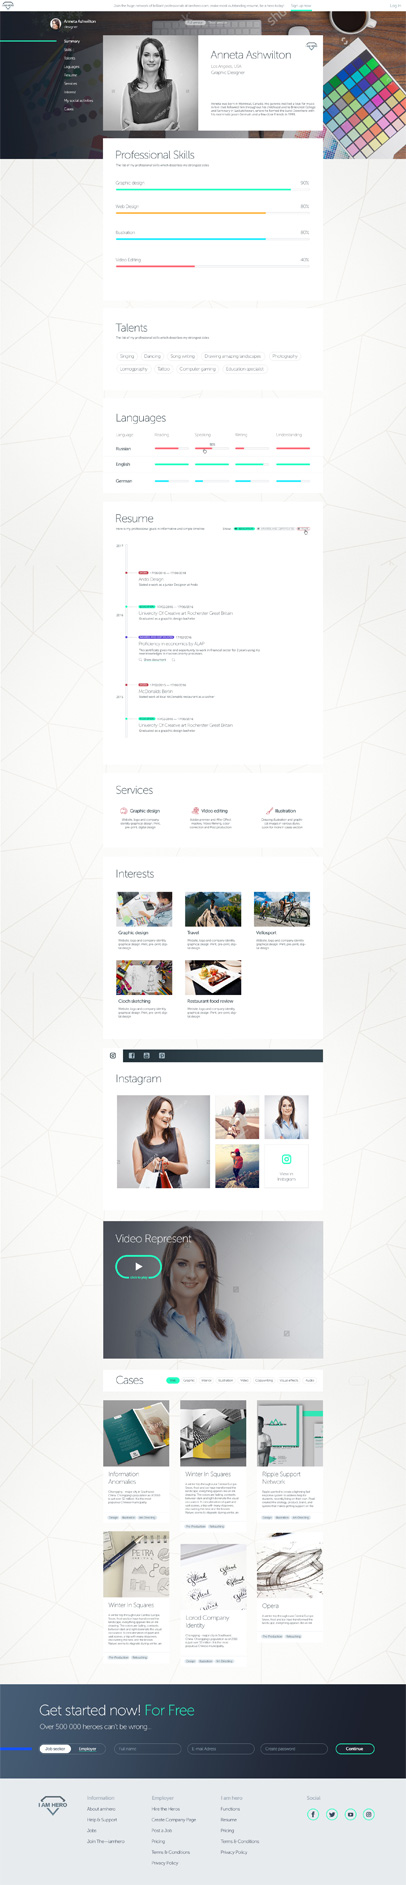
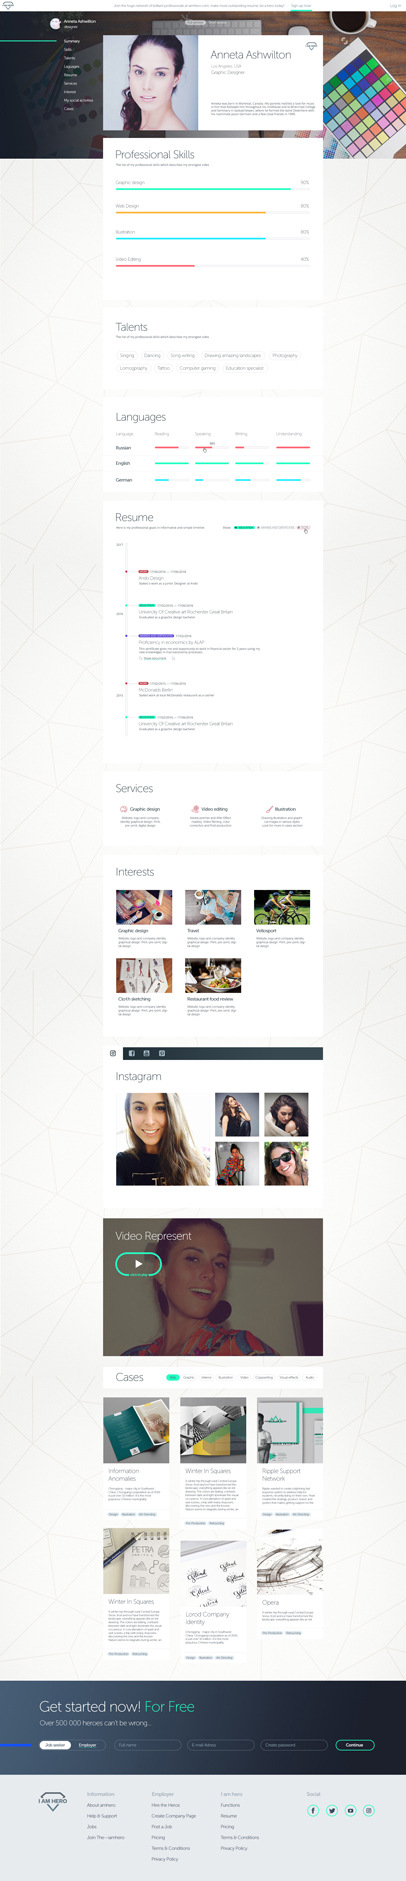
security

diff --git a/html/blocks/header_mainpage.html b/html/blocks/header_mainpage.html
@@ -14,9 +14,6 @@
         <div class="lead__bg lead__bg_hero">
           <div class="lead__bg-img lead__bg-img_hero">
             <img src="images/lead_hero.jpg" alt="">
-            <video loop>
-              <source src="video/shutterstock_v13506770.mp4" type='video/mp4; codecs="avc1.42E01E, mp4a.40.2"' />
-            </video>
           </div>
         </div>
       </div>
@@ -35,9 +32,6 @@
         <div class="lead__bg lead__bg_employer">
           <div class="lead__bg-img lead__bg-img_employer">
             <img src="images/lead_employer.jpg" alt="">
-            <video loop>
-              <source src="video/shutterstock_v13965938.mp4" type='video/mp4; codecs="avc1.42E01E, mp4a.40.2"' />
-            </video>
           </div>
         </div>
       </div>

diff --git a/scss/blocks/_lead.scss b/scss/blocks/_lead.scss
@@ -397,23 +397,6 @@
       margin: auto;
       object-fit: cover;
       z-index: 2;
-      display: none;
-
-      @media #{$desktop} {
-        display: block;
-      }
-
-      @media #{$tablet2} {
-        display: block;
-      }
-
-      @media #{$tablet} {
-        display: block;
-      }
-
-      @media #{$mobile} {
-        display: block;
-      }
     }
 
     &::before {
@@ -482,29 +465,4 @@
       top: 24px;
     }
   }
-
-  video {
-    height: 100%;
-    position: relative;
-    top: 0;
-    left: 0;
-    z-index: 1000;
-
-    @media #{$desktop} {
-      display: none;
-    }
-
-    @media #{$tablet2} {
-      display: none;
-    }
-
-    @media #{$tablet} {
-      display: none;
-    }
-
-    @media #{$mobile} {
-      display: none;
-    }
-  }
-
 }

diff --git a/scss/blocks/_communication.scss b/scss/blocks/_communication.scss
@@ -1,7 +1,7 @@
 .communication {
   padding-bottom: 100px;
   overflow: hidden;
-  
+
   @media #{$desktop} {
     padding-bottom: 40px;
   }
@@ -107,9 +107,9 @@
     width: 100%;
     height: 704px;
     overflow: visible;
-    
+
     @media #{$desktop} {
-      height: 400px;
+      height: 600px;
     }
 
     @media #{$tablet} {
@@ -117,18 +117,19 @@
     }
 
     @media #{$mobile} {
-      height: 175px;
+      height: 250px;
     }
 
     img {
       position: absolute;
       top: 0;
-      left: 50%;
+      //left: 50%;
       bottom: 0;
-      transform: translateX(-50%);
+      //transform: translateX(-50%);
       margin: auto;
       max-height: 100%;
-      width: auto;
+      //width: auto;
+      width: 100%;
       object-fit: cover;
     }
   }

diff --git a/js/scripts.js b/js/scripts.js
@@ -308,15 +308,3 @@ $('.video__youtube-link').click(function (event) {
     videoblockVip.find('iframe').attr('src', src + videoVip + '?autoplay=1');
   }, 250);
 });
-
-$('.lead__item_hero').hover(function () {
-  $(this).find("video")[0].play();
-}, function () {
-  $(this).find("video")[0].pause();
-});
-
-$('.lead__item_employer').hover(function () {
-  $(this).find("video")[0].play();
-}, function () {
-  $(this).find("video")[0].pause();
-});
